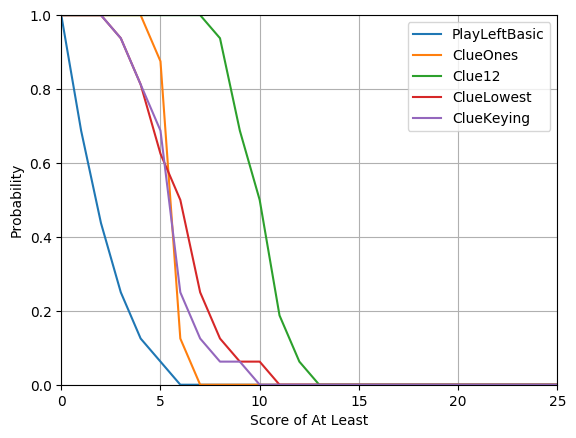
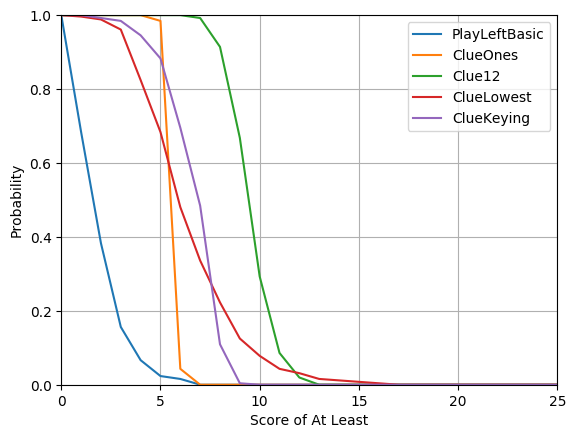
WIP

Changed region(s): [[0.125, 0.0297, 0.6875, 0.8904], [0.375, 0.089, 0.4062, 0.2374], [0.3125, 0.0297, 0.375, 0.089]]

diff --git a/player/cluekeying.py b/player/cluekeying.py
@@ -1,4 +1,5 @@
 import player.clues
+from util import CARD_ZEROS, CARD_ONES, CARD_NOINFO
 import util
 import numpy as np
 import disp
@@ -22,22 +23,25 @@ class ClueKeying:
         """
         self.n_handcards = n_handcards
         self.n_players = n_players
+        handcards_info_size = (self.n_players, self.n_handcards, 1, 1)
         self.curr_player_idx = None
         self.n_fuses = util.MAX_FUSES
         self.n_clues = util.MAX_CLUES
         self.n_undealt = util.N_CARDS
-        self.hands = np.tile(util.CARD_ZEROS[np.newaxis, np.newaxis, ...], (self.n_players, self.n_handcards, 1, 1))
-        self.clues_hands = np.tile(util.CARD_ONES[np.newaxis, np.newaxis, ...],
-                                   (self.n_players, self.n_handcards, 1, 1))
-        self.info_hands = np.tile(util.CARD_ZEROS[np.newaxis, np.newaxis, ...],
-                                  (self.n_players, self.n_handcards, 1, 1))
-        self.odds_hands = np.tile(util.CARD_ZEROS[np.newaxis, np.newaxis, ...],
-                                  (self.n_players, self.n_handcards, 1, 1))
-        self.n_cards = np.zeros((self.n_players,), np.int)
-        self.table = np.copy(util.CARD_ZEROS)
-        self.discards = np.copy(util.CARD_ZEROS)
+        self.hands = np.tile(CARD_ZEROS[np.newaxis, np.newaxis, ...], handcards_info_size)
+        self.clues_hands = np.tile(CARD_ONES[np.newaxis, np.newaxis, ...], handcards_info_size)
+        self.info_hands = np.tile(CARD_ONES[np.newaxis, np.newaxis, ...], handcards_info_size)
+        self.odds_hands = np.tile(CARD_ZEROS[np.newaxis, np.newaxis, ...], handcards_info_size)
+        self.n_cards = np.zeros((self.n_players, ), np.int)
+        self.table = np.copy(CARD_ZEROS)
+        self.discards = np.copy(CARD_ZEROS)
         self.last_cluegiver = -1
         self.last_clue = -np.ones((4, 1))
+        self.own_hand_odds = np.tile(CARD_ZEROS[np.newaxis, ...], (self.n_handcards, 1, 1)).astype(np.float)
+        self.self_unaccounted_cards = CARD_NOINFO
+        # self.hand_odds = np.tile(CARD_ZEROS[np.newaxis, np.newaxis, ...], handcards_info_size).astype(np.float)
+        # self.unaccounted_cards = np.tile(CARD_NOINFO[np.newaxis, np.newaxis, ...], handcards_info_size).astype(np.float)
+
         return
 
     def start_game(self, first_player_idx):
@@ -80,51 +84,63 @@ class ClueKeying:
             action = decode_clue(possible_clues, self.last_clue, cluable_player_idxs)
 
         else:
-            top_playable = np.array([])
 
             # for cluing person to your left
             possible_clues = self.get_possible_clues(-1, 0)
 
             if self.n_clues > 1:
-                # get person to your left to play a card
-                ranked_playability_0 = self.rank_playability(0)
-                actual_playable_0 = np.any(get_playable_cards(self.table)*self.hands[0], (1, 2))
-                top_playable_0 = np.where(actual_playable_0[ranked_playability_0])[0]
+                # if you know an action for sure, do it
+                odds_playable = np.sum(get_playable_cards(self.table)*self.own_hand_odds, (1, 2))
+                odds_discardable = np.sum(get_discardable_cards(self.table)*self.own_hand_odds, (1, 2))
+                odds_useless = np.sum(get_useless_cards(self.table, self.discards)*self.own_hand_odds, (1, 2))
 
-                if top_playable_0.size:
-                    rank_to_play_0 = np.where(ranked_playability_0 == top_playable_0[0])[0]
-                    clue_info = ('play', rank_to_play_0[0])
-                    logging.info('Trying to get player to my left to play {} most playable card, card {}'.format(rank_to_play_0[0], ranked_playability_0[rank_to_play_0[0]]))
-                    clue = encode_clue(possible_clues, clue_info, self.exclude_idxs(np.array([0, -1])))
+                PLAY_THRESH = 1
+                DISCARD_THRESH = 1
+                USELESS_THRESH = 1
+                if np.any(odds_playable >= PLAY_THRESH):
+                    action = ('play', np.where(odds_playable >= PLAY_THRESH)[0][0])
                     valid_action = True
+                elif np.any(odds_discardable >= DISCARD_THRESH):
+                    action = ('discard', np.where(odds_discardable >= DISCARD_THRESH)[0][0])
+                    valid_action = True
+                elif np.any(odds_useless >= USELESS_THRESH):
+                    action = ('discard', np.where(odds_useless >= USELESS_THRESH)[0][0])
+                    valid_action = True
+                else:
+                    # get person to your left to play a card
+                    rank_to_play_0 = self.get_playability_rank_to_play(0)
+
+                    if not rank_to_play_0 == -1:
+                        clue_info = ('play', rank_to_play_0)
+                        logging.info('Trying to get player to my left to play {} most playable card'.format(rank_to_play_0))
+                        clue = encode_clue(possible_clues, clue_info, self.exclude_idxs(np.array([0, -1])))
+                        if not clue[0] == -1:
+                            clue_idxs = np.where(np.sum(self.hands[clue[0], ...], axis=(2 - clue[1]))[:, clue[2]])[0]
+                            action = ('clue', (clue[0], 'color' if clue[1] else 'number', clue[2], clue_idxs))
+                            valid_action = True
+
 
             # if no playable cards or only one clue left
             if self.n_clues == 1 or not valid_action:
 
                 # TODO tell to play if next person's communal top discardable card (after clue given? could be impossible, will have to check) is discardable
 
-                ranked_discardability_0 = self.rank_discardability(0, np.array([0, -1]))
-                actual_discardable_0 = np.any(get_discardable_cards(self.table)*self.hands[0], (1, 2))
-                top_discardable_0 = np.where(actual_discardable_0[ranked_discardability_0])[0]
-                if top_discardable_0.size:
-                    rank_to_discard_0 = np.where(ranked_discardability_0 == top_discardable_0[0])[0]
-                    clue_info = ('discard', rank_to_discard_0[0])
-                    logging.info('Trying to get player to my left to discard {} most discardable card, card {}'.format(rank_to_discard_0[0], ranked_discardability_0[rank_to_discard_0[0]]))
+                rank_to_discard_0 = self.get_discardability_rank_to_discard(0)
+
+                if not rank_to_discard_0 == -1:
+                    clue_info = ('discard', rank_to_discard_0)
+                    logging.info('Trying to get player to my left to discard {} most discardable card'.format(rank_to_discard_0))
                     clue = encode_clue(possible_clues, clue_info, self.exclude_idxs(np.array([0, -1])))
-                    valid_action = True
+                    if not clue[0] == -1:
+                        clue_idxs = np.where(np.sum(self.hands[clue[0], ...], axis=(2 - clue[1]))[:, clue[2]])[0]
+                        action = ('clue', (clue[0], 'color' if clue[1] else 'number', clue[2], clue_idxs))
+                        valid_action = True
 
-            if valid_action:
-                if not clue[1]:
-                    # number
-                    clue_idxs = np.where(np.sum(self.hands[clue[0], ...], axis=2)[:, clue[2]])[0]
-                else:
-                    # color
-                    clue_idxs = np.where(np.sum(self.hands[clue[0], ...], axis=1)[:, clue[2]])[0]
-
-                action = ('clue', (clue[0], 'color' if clue[1] else 'number', clue[2], clue_idxs))
-            else:
+            if not valid_action:
                 # this only happens if no discardable cards in their hand
-                action = ('discard', 0)
+                odds_discardable = np.sum(get_discardable_cards(self.table)*self.own_hand_odds, (1, 2))
+
+                action = ('discard', np.argmax(odds_discardable))
 
         return action
 
@@ -148,6 +164,11 @@ class ClueKeying:
         self.discards += util.card2info(card)
         self.n_fuses = n_fuses
         self.reduce_hand(player_idx, card_idx)
+        if player_idx == -1:
+            self.self_unaccounted_cards = CARD_NOINFO - (self.table + self.discards + np.sum(self.hands[0:-1], (0, 1)) + np.sum(self.own_hand_odds, 0))
+            reweight = np.maximum(self.self_unaccounted_cards - util.card2info(card), 0) / np.maximum(self.self_unaccounted_cards, 1)
+            self.own_hand_odds *= reweight
+            self.own_hand_odds = norm_hand(self.own_hand_odds)
         return
 
     def valid_card_played(self, player_idx, card_idx, card, n_clues):
@@ -170,6 +191,11 @@ class ClueKeying:
         self.table += util.card2info(card)
         self.n_clues = n_clues
         self.reduce_hand(player_idx, card_idx)
+        if player_idx == -1:
+            self.self_unaccounted_cards = CARD_NOINFO - (self.table + self.discards + np.sum(self.hands[0:-1], (0, 1)) + np.sum(self.own_hand_odds, 0))
+            reweight = np.maximum(self.self_unaccounted_cards - util.card2info(card), 0) / np.maximum(self.self_unaccounted_cards, 1)
+            self.own_hand_odds *= reweight
+            self.own_hand_odds = norm_hand(self.own_hand_odds)
         return
 
     def card_discarded(self, player_idx, card_idx, card, n_clues):
@@ -192,6 +218,11 @@ class ClueKeying:
         self.discards += util.card2info(card)
         self.n_clues = n_clues
         self.reduce_hand(player_idx, card_idx)
+        if player_idx == -1:
+            self.self_unaccounted_cards = CARD_NOINFO - (self.table + self.discards + np.sum(self.hands[0:-1], (0, 1)) + np.sum(self.own_hand_odds, 0))
+            reweight = np.maximum(self.self_unaccounted_cards - util.card2info(card), 0) / np.maximum(self.self_unaccounted_cards, 1)
+            self.own_hand_odds *= reweight
+            self.own_hand_odds = norm_hand(self.own_hand_odds)
         return
 
     def clue_given(self, player_idx, to_player_idx, card_idxs, clue_type, clue_idx):
@@ -254,42 +285,55 @@ class ClueKeying:
         self.n_cards[player_idx] += 1
         assert (self.n_cards[player_idx] == n_cards)
         if player_idx == -1 or player_idx == self.n_players:
-            self.hands[player_idx][self.n_cards[player_idx] - 1, ...] = util.CARD_NOINFO
+            self.hands[player_idx][self.n_cards[player_idx] - 1, ...] = CARD_NOINFO
         else:
             card_info = util.card2info(card)
             self.hands[player_idx][self.n_cards[player_idx] - 1, ...] = card_info
             self.hands[-1][:self.n_cards[player_idx], ...] -= card_info
 
+        if player_idx == -1:
+            self.self_unaccounted_cards = CARD_NOINFO - (self.table + self.discards + np.sum(self.hands[0:-1], (0, 1)) + np.sum(self.own_hand_odds[:self.n_cards[-1]], 0))
+            self.own_hand_odds[self.n_cards[player_idx] - 1] = self.self_unaccounted_cards
+            self.own_hand_odds = norm_hand(self.own_hand_odds)
+        else:
+            self.self_unaccounted_cards = CARD_NOINFO - (self.table + self.discards + np.sum(self.hands[0:-1], (0, 1)) + np.sum(self.own_hand_odds, 0))
+            reweight = np.maximum(self.self_unaccounted_cards - util.card2info(card), 0) / np.maximum(self.self_unaccounted_cards, 1)
+            self.own_hand_odds *= reweight
+            self.own_hand_odds = norm_hand(self.own_hand_odds)
         return
 
     def reduce_hand(self, player_idx, card_idx):
         keep_inds = np.where(np.arange(self.n_cards[player_idx]) != card_idx)[0]
         self.n_cards[player_idx] -= 1
         self.hands[player_idx][:self.n_cards[player_idx], ...] = self.hands[player_idx][keep_inds, ...]
-        self.hands[player_idx][self.n_cards[player_idx], ...] = util.CARD_ZEROS
+        self.hands[player_idx][self.n_cards[player_idx], ...] = CARD_ZEROS
         self.clues_hands[player_idx][:self.n_cards[player_idx], ...] = self.clues_hands[player_idx][keep_inds, ...]
-        self.clues_hands[player_idx][self.n_cards[player_idx], ...] = util.CARD_ONES
+        self.clues_hands[player_idx][self.n_cards[player_idx], ...] = CARD_ONES
+        if player_idx == -1:
+            self.own_hand_odds[:self.n_cards[player_idx], ...] = self.own_hand_odds[keep_inds, ...]
         return
 
-    def rank_discardability(self, player_idx, communal_idxs = np.array([-1])):
+    def get_discardability_rank_to_discard(self, player_idx):
+        return self.get_doability_rank_to_do(player_idx, get_discardable_cards(self.table))
 
-        # get indices of visible hands
-        hand_idxs = np.delete(np.arange(0, self.n_players), np.mod(communal_idxs, self.n_players))
-        # all visible cards to communal players
-        visible_cards = self.table + self.discards + np.sum(self.hands[hand_idxs], (0, 1))
-        discardable_cards = get_discardable_cards(visible_cards)
-        hand_odds = norm_hand(util.CARD_NOINFO*self.clues_hands[player_idx, ...])
-        odds_discardable = np.sum(discardable_cards[np.newaxis, ...] * hand_odds, (2, 1))
+    def get_playability_rank_to_play(self, player_idx):
+        return self.get_doability_rank_to_do(player_idx, get_playable_cards(self.table))
 
-        return np.argsort(odds_discardable)
+    def get_doability_rank_to_do(self, player_idx, doable_cards):
 
-    def rank_playability(self, player_idx):
+        # TODO this should be more complicated, involving joint playability, not just based on clues
 
-        playable_cards = get_playable_cards(self.table)
-        hand_odds = norm_hand(util.CARD_NOINFO*self.clues_hands[player_idx, ...])
-        odds_playable = np.sum(playable_cards[np.newaxis, ...] * hand_odds, (2, 1))
+        hand_odds = norm_hand(CARD_NOINFO*self.clues_hands[player_idx, ...])
+        odds_doable = np.sum(doable_cards[np.newaxis, ...] * hand_odds, (2, 1))
+        ranked_doability = np.argsort(-odds_doable)
+        # determine which card indices are actually doable
+        actual_doable = np.any(doable_cards * self.hands[player_idx], (1, 2))
+        # get joint-playability-ranked order of actually playable card indices
+        top_doable_idx = np.where(actual_doable[ranked_doability])[0]
+        if not top_doable_idx.size:
+            return -1
 
-        return np.argsort(odds_playable)
+        return top_doable_idx[0]
 
     def get_possible_clues(self, clue_from, clue_to):
         communal_idxs = np.array([clue_from, clue_to])
@@ -308,12 +352,12 @@ class ClueKeying:
         # possible clues are in form (relative player_idx, number (0) or color (1), color/number idx)
         return possible_clues
 
-
     def exclude_idxs(self, idxs):
         return np.delete(np.arange(0, self.n_players), np.mod(idxs, self.n_players))
 
+
 def cards_possible(table, discards, hands):
-    return util.CARD_NOINFO - table - discards - np.sum(hands, axis=(0, 1))
+    return CARD_NOINFO - table - discards - np.sum(hands, axis=(0, 1))
 
 
 def norm_hand(hand):
@@ -324,18 +368,18 @@ def norm_hand(hand):
 
 
 def get_playable_cards(table):
-    playable_cards = np.concatenate((np.copy(util.CARD_ZEROS), np.zeros((1, table.shape[1]))), 0)
+    playable_cards = np.concatenate((np.copy(CARD_ZEROS), np.zeros((1, table.shape[1]))), 0)
     playable_cards[np.sum(table, axis=0), np.arange(util.N_COLORS)] = 1
     return playable_cards[:-1, :]
 
 
 def get_discardable_cards(visible_cards):
-    discardable_cards = (np.copy(util.CARD_NOINFO) - visible_cards) != 1
+    discardable_cards = (np.copy(CARD_NOINFO) - visible_cards) != 1
     return discardable_cards
 
 
 def get_useless_cards(table, discards):
-    useless_cards = np.copy(util.CARD_ONES)
+    useless_cards = np.copy(CARD_ONES)
     max_color_scores = get_max_color_scores(discards)
     for color_idx in range(util.N_COLORS):
         useless_cards[np.sum(table[:, color_idx]):max_color_scores[color_idx], color_idx] = 0
@@ -345,7 +389,7 @@ def get_useless_cards(table, discards):
 
 def get_max_color_scores(discards):
     # TODO figure out when not enough turns to play remaining cards
-    cards_left = np.copy(util.CARD_NOINFO) - discards
+    cards_left = np.copy(CARD_NOINFO) - discards
     max_color_scores = util.MAX_NUMBER * np.ones((util.N_COLORS,), np.int8)
     for color_idx in range(util.N_COLORS):
         zero_inds = np.where(cards_left[:, color_idx] == 0)[0]
@@ -355,13 +399,13 @@ def get_max_color_scores(discards):
 
 
 def get_color_clue_mask(color_idx):
-    mask = np.copy(util.CARD_ZEROS)
+    mask = np.copy(CARD_ZEROS)
     mask[:, color_idx] = 1
     return mask
 
 
 def get_number_clue_mask(number_idx):
-    mask = np.copy(util.CARD_ZEROS)
+    mask = np.copy(CARD_ZEROS)
     mask[number_idx, :] = 1
     return mask
 
@@ -382,7 +426,14 @@ def encode_clue(possible_clues, clue_info, clueable_player_idxs):
     else:
         poss_idx = 2*clue_info[1] + 1
 
+
+    logging.debug('{}'.format(possible_clues))
+
     logging.info('Using poss_idx of {}'.format(poss_idx))
+
+    if poss_idx >= possible_clues[0].size:
+        clue = np.array([-1, -1, -1])
+        return clue
 
     player_idx = clueable_player_idxs[possible_clues[0][poss_idx]]
     clue_type = possible_clues[1][poss_idx]
@@ -400,6 +451,7 @@ def decode_clue(possible_clues, clue_info, clueable_player_idxs):
     poss_clue_match = np.where(possible_clues[2] == clue_info[3])[0]
     poss_idx = np.intersect1d(poss_player_match, np.intersect1d(poss_type_match, poss_clue_match))[0]
 
+    logging.debug('{}'.format(possible_clues))
     logging.info('Received poss_idx of {}'.format(poss_idx))
 
     action_type = 'play' if not np.mod(poss_idx, 2) else 'discard'

diff --git a/play.py b/play.py
@@ -33,9 +33,9 @@ log.addHandler(ch)
 # but also save output to log
 
 PlayerTypes = (PlayLeftBasic, ClueOnes, Clue12, ClueLowest, ClueKeying)
-redo = np.array([True, True, True, True, True])
+redo = np.array([False, False, False, False, True])
 N_types = len(PlayerTypes)
-N_trials = 2**4
+N_trials = 2**8
 scores = np.zeros((N_types, N_trials), dtype=int)
 hists = np.zeros((N_types, util.N_PLAYABLE+1))
 bins = np.arange(util.N_PLAYABLE+2) - .5
